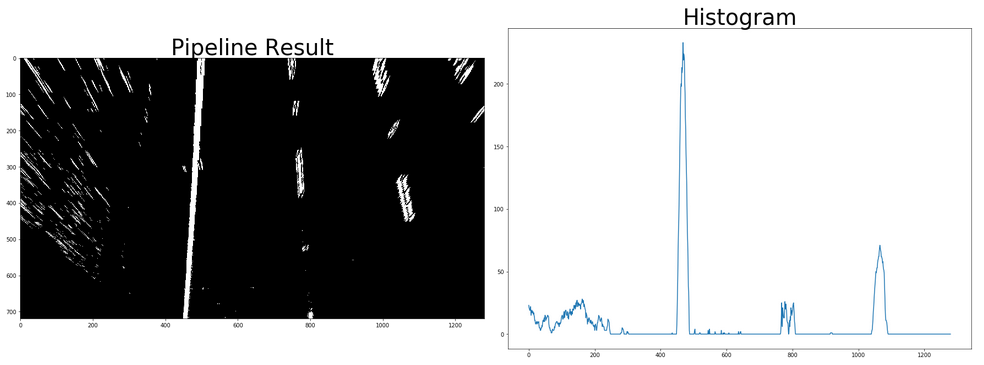
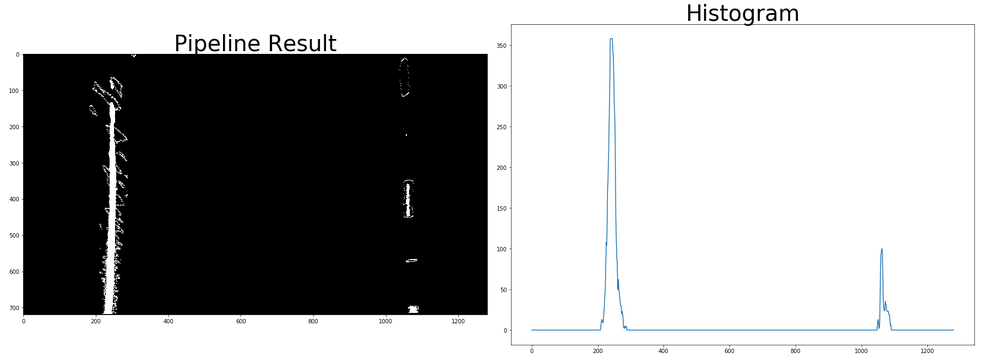
udpate images to reflect reviewer comments

diff --git a/README.md b/README.md
@@ -146,3 +146,10 @@ The different lighting condition and the combination of the road & lane colors p
 Apart from this, I also faced difficulties & error while unwarping a section which had a vehicle/shadow in the region of interest. the inclusion of such vechicle/shadows also result in linear vertical lines and when these are found close of the lane lines, they cause ambiguity, especially in cases when lane colors are dull compared to these objects. I tried several values for thresholding, but none seemed to have good effect in such scenarios. When I tried the pipeline on road condition in India, the pipeline failed completely since the lane markes vary in size, colors and continuity.
 
 The pipeline implemented here seems trivial and I hope to return to this problem and evaluate the current state-of-art on lane keeping/tracking.
+
+### Changes after review
+
+1. The readme file had wrongly linked the undistorted image link to the distorted image. This was corrected.
+2. src & dest poitns for the region of interest was changed based on the reviewer's suggestion. Along with corresponding modifications, this drastically improved the perforamce.
+3. The detected lane fit is now drawn on the undistorted image instead of the original distorted image.(I had previously misunderstood the rubric's requirement of 'original image' as the original distorted image from camera)
+4. In the result video, the lanes are drawn on the undistroted image
